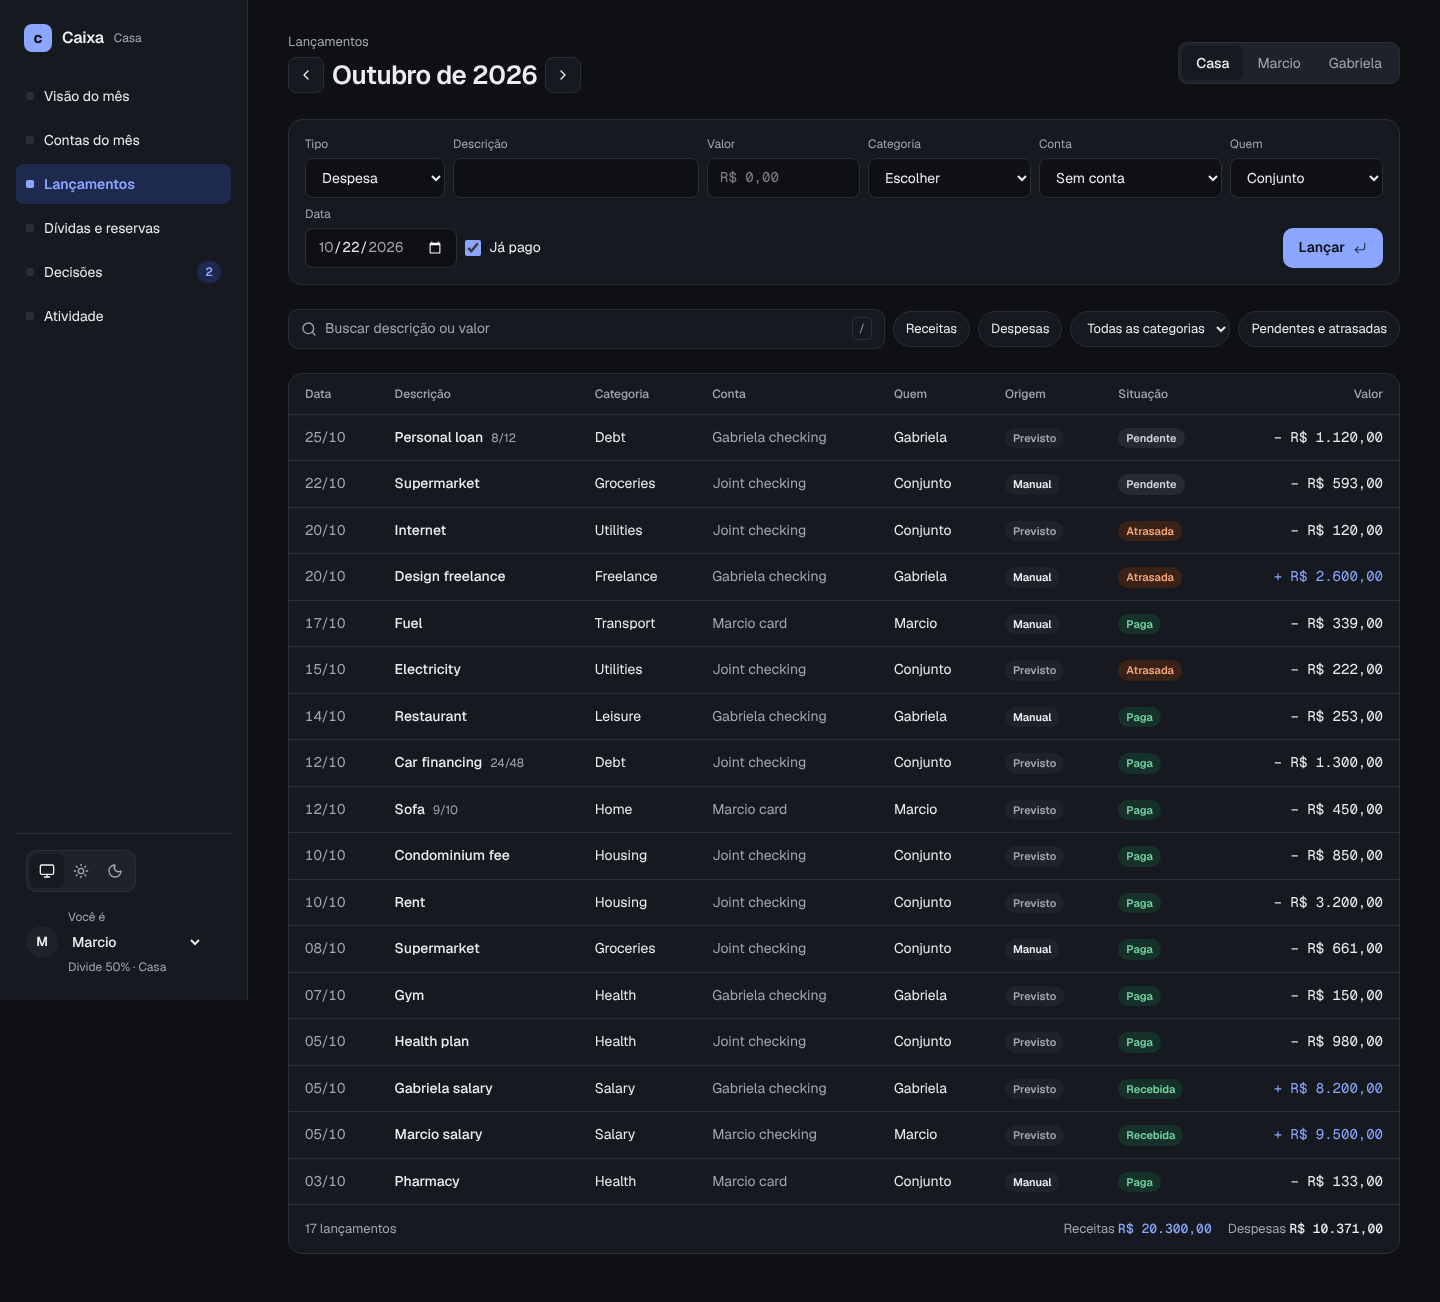
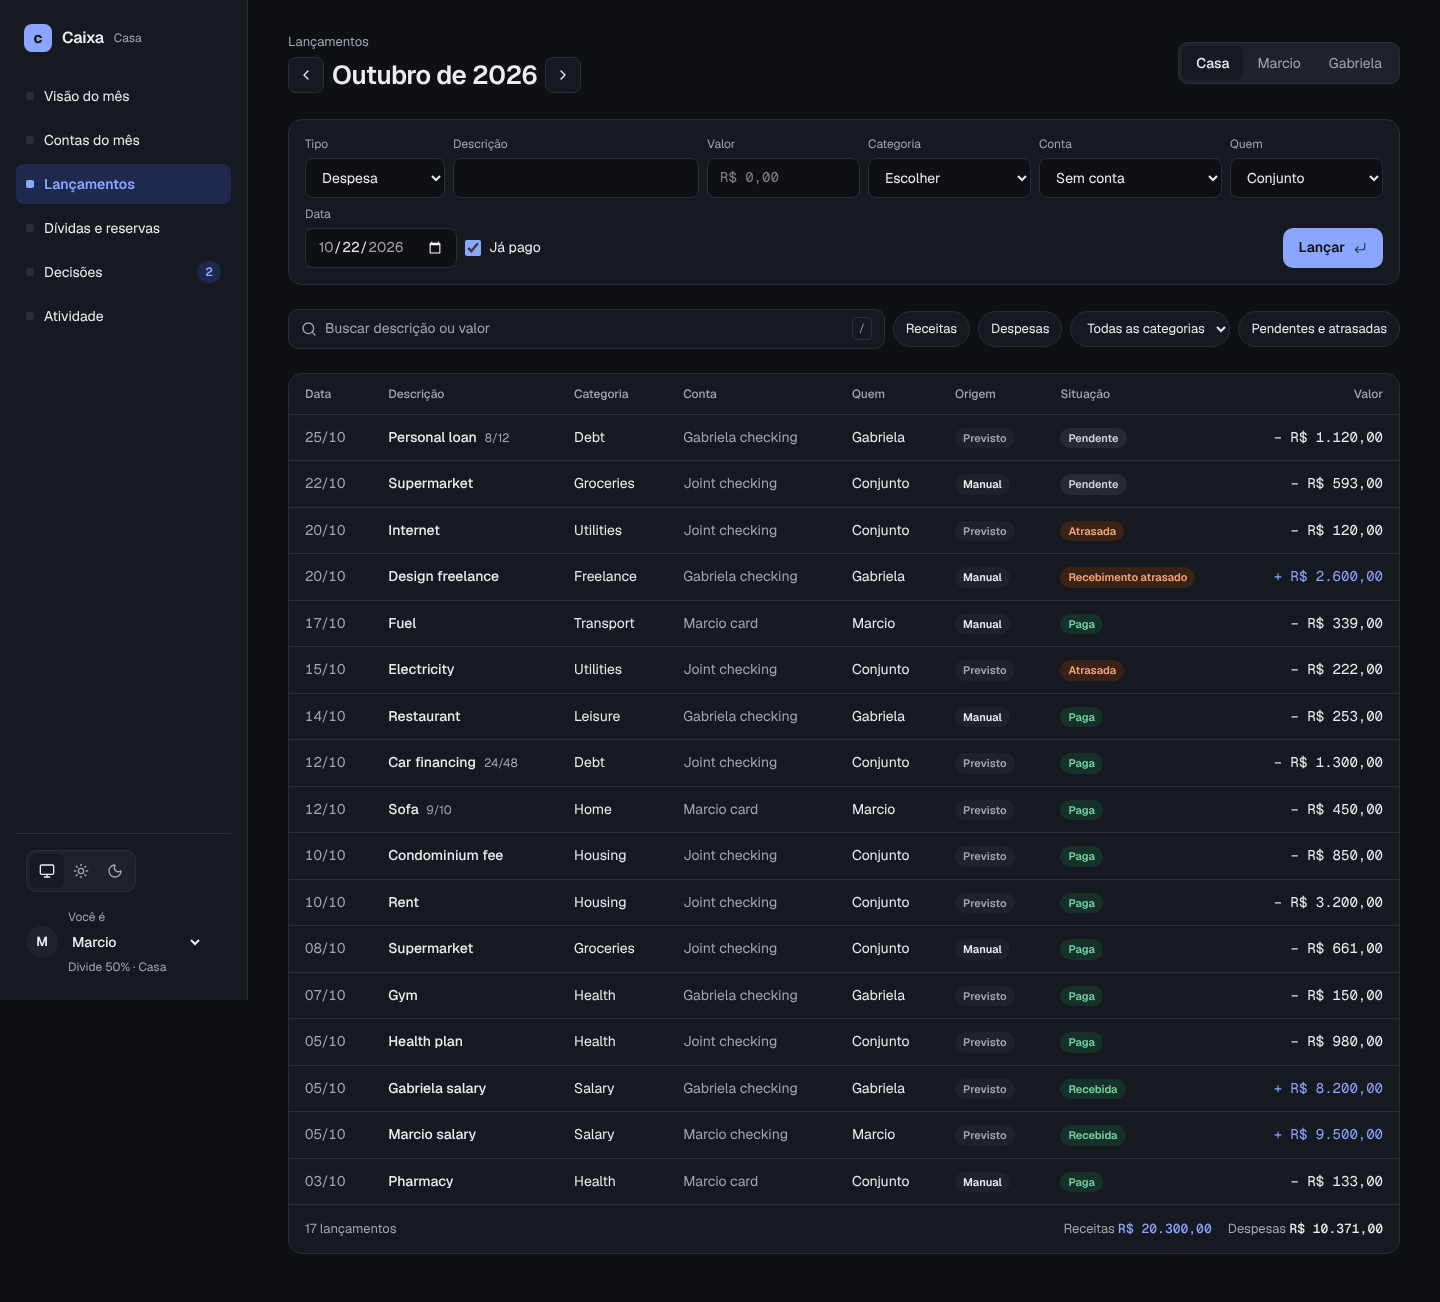
Q02: income entries read A receber, Recebida and Recebimento atrasado

diff --git a/web/src/entries/entries-page.test.tsx b/web/src/entries/entries-page.test.tsx
@@ -1,7 +1,7 @@
 import { createMemoryHistory } from '@tanstack/react-router'
 import { cleanup, render, screen, within } from '@testing-library/react'
 import userEvent from '@testing-library/user-event'
-import { afterEach, expect, test, vi } from 'vitest'
+import { afterEach, expect, onTestFinished, test, vi } from 'vitest'
 import { App } from '../app.tsx'
 
 const entry = (id: string, description: string, direction: 'income' | 'expense', state: 'paid' | 'pending' | 'late', dueOn: string, cents: number, extra: Record<string, unknown> = {}) => ({
@@ -97,7 +97,22 @@ test('reads the chosen member entries and shows an empty month', async () => {
   const { unmount } = render(<App history={createMemoryHistory({ initialEntries: ['/lancamentos?month=2026-10&member=Marcio'] })} fetch={fetch} />)
   await screen.findByRole('table')
   expect(descriptions()).toEqual(['Salary'])
+  expect(within(screen.getByRole('table')).getByText('Recebida')).toBeTruthy()
   unmount()
   start('/lancamentos?month=2026-11')
   expect(await screen.findByText('Nenhum lançamento em novembro de 2026')).toBeTruthy()
+})
+
+test('words open income as receivable in rows and the open filter', async () => {
+  const user = userEvent.setup()
+  october.push(entry('5', 'Freelance', 'income', 'late', '2026-10-10', 90000), entry('6', 'Bonus', 'income', 'pending', '2026-10-30', 50000))
+  onTestFinished(() => void october.splice(4))
+  start('/lancamentos?month=2026-10')
+  await screen.findByRole('table')
+  await user.click(screen.getByRole('button', { name: 'Receitas' }))
+  await user.click(screen.getByRole('button', { name: 'A receber e atrasadas' }))
+  const table = within(screen.getByRole('table'))
+  expect(descriptions()).toEqual(['Bonus', 'Freelance'])
+  expect([table.getByText('A receber'), table.getByText('Recebimento atrasado')]).toHaveLength(2)
+  expect(table.queryByText(/^(Pendente|Atrasada)$/)).toBeNull()
 })

diff --git a/web/src/entries/model.test.ts b/web/src/entries/model.test.ts
@@ -1,6 +1,6 @@
 import { expect, test } from 'vitest'
 import type { Entry } from '../overview/model.ts'
-import { categoriesOf, filterEntries, installmentOf, isFiltered, matches, noFilters, signedAmount, stateLabel, totalsOf } from './model.ts'
+import { categoriesOf, filterEntries, installmentOf, isFiltered, matches, noFilters, openLabel, signedAmount, stateLabel, totalsOf } from './model.ts'
 
 const entry = (id: string, description: string, overrides: Partial<Entry> = {}): Entry => ({
   id,
@@ -57,6 +57,8 @@ test('sums income and expenses in cents and lists categories once', () => {
 
 test('labels state, installments and signed amounts in Portuguese', () => {
   expect([pharmacy, salary, car, health].map(stateLabel)).toEqual(['Paga', 'Recebida', 'Pendente', 'Atrasada'])
+  expect([salary, { ...salary, state: 'pending' as const }, { ...salary, state: 'late' as const }].map(stateLabel)).toEqual(['Recebida', 'A receber', 'Recebimento atrasado'])
+  expect([openLabel(), openLabel('expense'), openLabel('income')]).toEqual(['Pendentes e atrasadas', 'Pendentes e atrasadas', 'A receber e atrasadas'])
   expect(installmentOf(car)).toBe('18/48')
   expect(installmentOf({ ...car, installmentsTotal: null })).toBe('parcela 18')
   expect(installmentOf(pharmacy)).toBeUndefined()

diff --git a/web/src/entries/model.ts b/web/src/entries/model.ts
@@ -35,7 +35,14 @@ export const categoriesOf = (entries: Entry[]) => [...new Set(entries.map((entry
 
 export const originLabels: Record<Entry['origin'], string> = { manual: 'Manual', claude: 'Claude', import: 'Planilha', forecast: 'Previsto' }
 
-export const stateLabel = (entry: Entry) => (entry.state === 'paid' ? (entry.direction === 'income' ? 'Recebida' : 'Paga') : entry.state === 'late' ? 'Atrasada' : 'Pendente')
+const stateLabels: Record<Entry['direction'], Record<Entry['state'], string>> = {
+  income: { paid: 'Recebida', pending: 'A receber', late: 'Recebimento atrasado' },
+  expense: { paid: 'Paga', pending: 'Pendente', late: 'Atrasada' },
+}
+
+export const stateLabel = (entry: Entry) => stateLabels[entry.direction][entry.state]
+
+export const openLabel = (direction?: Entry['direction']) => (direction === 'income' ? 'A receber e atrasadas' : 'Pendentes e atrasadas')
 
 export const installmentOf = ({ installmentNumber, installmentsTotal }: Entry) => (installmentNumber ? (installmentsTotal ? `${installmentNumber}/${installmentsTotal}` : `parcela ${installmentNumber}`) : undefined)
 

diff --git a/web/src/activity/describe.test.ts b/web/src/activity/describe.test.ts
@@ -6,6 +6,7 @@ const item = (changes: Partial<AuditItem>): AuditItem => ({ id: '1', at: '2026-1
 test('describes entries, payments, decisions and other changes in Portuguese', () => {
   expect(describeAudit(item({ after: { description: 'Mercado', amount_cents: 38620 } }))).toBe('Lançou Mercado · R$ 386,20')
   expect(describeAudit(item({ action: 'update', before: { description: 'Energia', status: 'planned' }, after: { description: 'Energia', status: 'paid' } }))).toBe('Marcou Energia como paga')
+  expect(describeAudit(item({ action: 'update', before: { description: 'Salário', status: 'planned' }, after: { description: 'Salário', status: 'paid', direction: 'income' } }))).toBe('Marcou Salário como recebida')
   expect(describeAudit(item({ action: 'close', before: { description: 'Energia' } }))).toBe('Encerrou Energia')
   expect(describeAudit(item({ entity: 'decision', after: { title: 'Trocar plano de internet' } }))).toBe('Propôs Trocar plano de internet')
   expect(describeAudit(item({ entity: 'decision_confirmation' }))).toBe('Confirmou uma decisão')

diff --git a/web/src/entries/toolbar.tsx b/web/src/entries/toolbar.tsx
@@ -1,7 +1,7 @@
 import { Search } from 'lucide-react'
 import { useEffect, useRef } from 'react'
 import { cn } from '../lib/utils.ts'
-import type { Filters } from './model.ts'
+import { type Filters, openLabel } from './model.ts'
 
 const chip = 'min-h-11 rounded-full border bg-surface px-3 text-meta text-text md:min-h-9'
 const active = 'border-accent bg-accent-soft text-accent'
@@ -67,7 +67,7 @@ export const Toolbar = ({ filters, categories, onChange }: Props) => {
         ))}
       </select>
       <button type="button" aria-pressed={filters.open} onClick={() => set({ open: !filters.open })} className={cn(chip, filters.open && active)}>
-        Pendentes e atrasadas
+        {openLabel(filters.direction)}
       </button>
     </div>
   )

diff --git a/web/src/activity/describe.ts b/web/src/activity/describe.ts
@@ -36,7 +36,7 @@ const verbs = { create: 'Criou', update: 'Alterou', close: 'Encerrou' }
 const describeEntry = ({ action, before, after }: AuditItem) => {
   const name = text(after, 'description') ?? text(before, 'description') ?? 'lançamento'
   if (action === 'create') return [`Lançou ${name}`, cents(after, 'amount_cents')].filter(Boolean).join(' · ')
-  if (action === 'update' && text(after, 'status') === 'paid' && text(before, 'status') !== 'paid') return `Marcou ${name} como paga`
+  if (action === 'update' && text(after, 'status') === 'paid' && text(before, 'status') !== 'paid') return `Marcou ${name} como ${text(after, 'direction') === 'income' ? 'recebida' : 'paga'}`
   return `${verbs[action]} ${name}`
 }
 

diff --git a/MEMORY.md b/MEMORY.md
@@ -6,7 +6,7 @@
 - Node 22 is preinstalled: `npm i -g node@24` then `hash -r` (about a minute; 24.22.0 on 2026-10-20)
 - PostgreSQL 16: `pg_ctlcluster 16 main start`, then `su postgres -c "psql -c \"alter user postgres password 'local'\""`, then `cp .env.example .env` (gitignored)
 - Run setup commands one per Bash call; long chained commands were refused by the classifier
-- `npm ci` then `npm run db:reset` and `npm run db:seed`; baseline is 141 node tests plus 106 web (Vitest) tests plus 58 Playwright; seed has 189 entries and `db:seed` also plants 4 decisions (`seedDecisions`, not in `seed()`, L73)
+- `npm ci` then `npm run db:reset` and `npm run db:seed`; baseline is 141 node tests plus 107 web (Vitest) tests plus 58 Playwright; seed has 189 entries and `db:seed` also plants 4 decisions (`seedDecisions`, not in `seed()`, L73)
 - `curl` to local servers needs `--noproxy '*'` (the agent proxy answers 404 otherwise); stop servers by pid, `pkill -f` matched the calling shell and killed the call
 - Web deps install with `npm i -w web ...` (add `-S` for runtime deps: a first `-w` install put react as a peer only); root scripts forwarding to the workspace need a trailing `--` or npm swallows flags
 - Single test file: `timeout 200 node --env-file=.env --test test/mcp/demo.test.ts` (capture to a log file and read the tail; piping through grep printed nothing once)
@@ -36,7 +36,7 @@
 - W06a: overview in `web/src/overview/` (pure `model.ts`/`activity.ts`, one card per file, `Card` wrapper); one query reads current plus previous month entries; a chosen member means that member's own entries only (L55); entries wait for `/api/members` so no unfiltered flash. Web test stubs must return full API shapes (the overview reads `awaiting` etc. directly). Screenshot spec waits for `[aria-busy]` to clear. Overview only: `npx playwright test -g overview`
 - W06b: Recharts 3.10 (on the list), only in the lazy `overview/flow-bars.tsx` (W12c); chart is plain `BarChart` with no axes, `accessibilityLayer={false}` (it adds a tabindex inside our `role="img"`), colors `var(--color-income|expense)`, HTML grids above/below for net and month labels (band scale aligns with equal grid columns at zero margins). The flow card mounts only when `useMediaQuery(desktop, true)` (`web/src/lib/media.ts`, fallback true in jsdom; tests stub `matchMedia` with `vi.stubGlobal`). Overview desktop rows: flow + bills, then categories + side column (settlement, decisions, activity); `MonthCategories` returns null for an empty month. Seed Pharmacy (joint, `Marcio card`, Health, day 3) feeds the split; seed totals asserted in node tests: Oct expenses 1037100, Sep 1021500
 - W07: `/contas` in `web/src/bills/`; undo uses the new `POST /api/entries/:id/unpaid` (`markUnpaid`, audited back to `planned`); mutations share key and scope `payment` (serial); per-call `mutate` callbacks fire only for the latest call, so notices come through `usePayment(month, handlers)`. Shared `Toast` in `web/src/components/toast.tsx` (no Radix dep). Toast colors: border/bg tokens only, `border-late/40` for the late row (mockup's `lateBorder` is not a token). Screenshots of one screen: `npx playwright test -g bills`; clicking in e2e would change the dev seed
-- W08a: entry read model has `origin` (`forecast` = linked to income, recurring expense or debt and not imported; seed shows only Manual and Previsto) and `installmentsTotal`; filters live in component state keyed by month and member (L65); jsdom renders both the md table and the mobile list, so page tests query `within(getByRole('table'))`; Biome flags `<kbd aria-hidden>` (used a span)
+- W08a: entry read model has `origin` (`forecast` = linked to income, recurring expense or debt and not imported; seed shows only Manual and Previsto) and `installmentsTotal`; filters live in component state keyed by month and member (L65); jsdom renders both the md table and the mobile list, so page tests query `within(getByRole('table'))`; Biome flags `<kbd aria-hidden>` (used a span). Q02: state labels by direction in `stateLabels`, `openLabel(direction)` for the open chip; entry audit rows hold the full row (`after.direction` in `describe.ts`)
 - W08b: `@hookform/resolvers` pinned to 5.9.2 (6.x has optional peers on `effect` 4 that npm cannot resolve); web `zod` 4.6.7 as root. Q01: quick add has `date` (today in the current month else the 1st, schema `quickEntry(month, today)` keeps it inside the month) and `paid` checkbox (Biome wants `aria-checked` on `role="switch"`, so plain checkbox); `paid_on` = date; form ids `quick-<field>` with `<label htmlFor>`; the form row wraps at every width (Data, Já pago, Lançar on line 2 at 1440). Vitest fakes only Date with `vi.useFakeTimers({ toFake: ['Date'] })` so userEvent still works
 - W09: `/patrimonio` in `web/src/worth/`; three queries (`debts`, `savings` = reserves plus goals, `net-worth`) each with its own `QueryView`. Tailwind `@theme inline` emits no `--color-*` variables at runtime: inline styles use the raw tokens (`var(--ok)`, `var(--sunken)`). Query client retries once (1 s), so error-state tests wait with `{ timeout: 3000 }`. Biome rejects array index keys (ticks carry a `number`)
 - W03: settlement counts only paid joint expenses on member-owned accounts (Needs author); the seed has none, so split is empty over the seed (L44). Audit `next` is a string cursor (bigint would become money via `toJson`); counts ignore the author filter and cursor so filter chips keep their numbers
@@ -55,6 +55,6 @@
 
 ## Status
 
-- Tests: 141 node, 106 web, 58 Playwright after Q01; `npm run check` green. `test/docs/readme.test.ts` fails when a committed screenshot is missing from the README or a README link breaks: a new screenshot needs a README row
-- Author promoted Q01–Q08 (QA findings) and I01–I08 (ADR-009 import) to Next; Q01 done 2026-10-22. A full Playwright run rewrites every screenshot (dates drift with the real day): keep only the screens the item touched, `git checkout` the rest
+- Tests: 141 node, 107 web, 58 Playwright after Q02; `npm run check` green. `test/docs/readme.test.ts` fails when a committed screenshot is missing from the README or a README link breaks: a new screenshot needs a README row
+- Author promoted Q01–Q08 (QA findings) and I01–I08 (ADR-009 import) to Next; Q01 and Q02 done 2026-10-22; next is Q03 (Mais tab). A full Playwright run rewrites every screenshot (dates drift with the real day): keep only the screens the item touched, `git checkout` the rest
 - Failing-test run streak: 0

diff --git a/BACKLOG.md b/BACKLOG.md
@@ -4,7 +4,6 @@ Ordered. The agent takes the first unblocked item under **Next**. Items marked *
 
 ## Next
 
-- **Q02 Income wording**: income entries show the expense statuses ("Pendente", "Atrasada"). Show "A receber", "Recebida" and "Recebimento atrasado" for income in entries, overview and chips. Done when no income row reads Pendente or Atrasada
 - **Q03 Mobile navigation**: on phones Lançamentos is reachable only through the + button and Atividade not at all. Add a "Mais" tab (or a menu in the top bar) listing Lançamentos, Atividade and the theme switch, keeping the tab bar at five targets. Done when every route is two taps away at 390 px
 - **Q04 Activity text names the record**: "Encerrou decisão" and "Confirmou uma decisão" do not say which; include the decision, entry or reserve title in every summary (the before/after rows carry it). Done when no summary is generic
 - **Q05 "Ver registro" opens the record**: today it links to the generic screen; link to the entry (lançamentos filtered or highlighted by id), the decision card, or the reserve. Done when the link lands on the item itself
@@ -25,6 +24,8 @@ Ordered. The agent takes the first unblocked item under **Next**. Items marked *
 - **I09 Images and scanned pdf** (phase 2 of ADR-009): needs image tool results in `service-agent`; then receipts and scanned statements as image segments, always reviewed
 - **I10 Monthly statements** (phase 3): the same pipeline with duplicate detection against the ledger and reconciliation by statement balance
 
+- **L96 Sidebar height on long pages**: at 1440 the desktop sidebar background stops at the first viewport height (about 1000 px) on long pages such as Lançamentos; make the sidebar full height (sticky, `h-dvh`) and check the 1440 screenshots
+- **L97 Bills toast and undo wording for income**: Contas lists expenses only today; if income ever joins it (or a "Recebimentos" view), the toast and activity for undo (`markUnpaid`) need the same receivable wording as Q02
 - **L94 Date input locale in screenshots**: headless Chromium draws the quick add date as `mm/dd/yyyy` although the context locale is pt-BR (the date input follows the browser UI language); launch Playwright Chromium with `--lang=pt-BR` and check axe and screenshots
 - **L95 Paid date of a past entry**: Q01 uses the entry date as `paid_on`; a bill paid on another day than its due date needs a separate paid date (or a later `mark_paid` with a date in Contas)
 
@@ -127,6 +128,7 @@ Ordered. The agent takes the first unblocked item under **Next**. Items marked *
 
 ## Done
 
+- **Q02 Income wording**: income states read "Recebida", "A receber" and "Recebimento atrasado" (one `stateLabels` table by direction in `entries/model.ts`); the open filter chip reads "A receber e atrasadas" when Receitas is chosen; activity says "Marcou X como recebida" for income (audit `after.direction`). Overview and Contas list expenses only, so no income row shows Pendente or Atrasada. 1 new web test plus assertions (141 node, 107 web, 58 e2e); entries screenshots refreshed
 - **Q01 Quick add of something already paid**: quick add gains a Data field (defaults to today in the current month, else the 1st; limited to the shown month) and a "Já pago" / "Já recebido" checkbox, on when the date is today or earlier and reset when the date changes; a future date marked paid is refused in the form; the body sends `paid_on` = date. The form row now wraps (Data, checkbox and Lançar on a second line at 1440). E2E adds "Farmácia R$ 84,90" today and finds it paid in Contas. 4 web tests (141 node, 106 web, 58 e2e); entries screenshots refreshed
 - **W13 Showcase**: README gains Showcase (overview desktop and phone in light and dark, a collapsible table of every screen at both widths and themes plus the undo toast), "Quick start: API plus web" (seed, API, Vite dev server, preview on 4173 with the same `/api` proxy) and Architecture (Mermaid sketch of web and Claude over the HTTP and MCP adapters, ledger, audited `write()`, PostgreSQL, plus five lines on the layering and safety rules); "Run locally" renamed Development; `test/docs/readme.test.ts` checks that every local link and image exists, every committed screenshot is shown and every image has alt text. 3 node tests (141 node, 102 web, 58 e2e); no screen changed, screenshots unchanged
 
